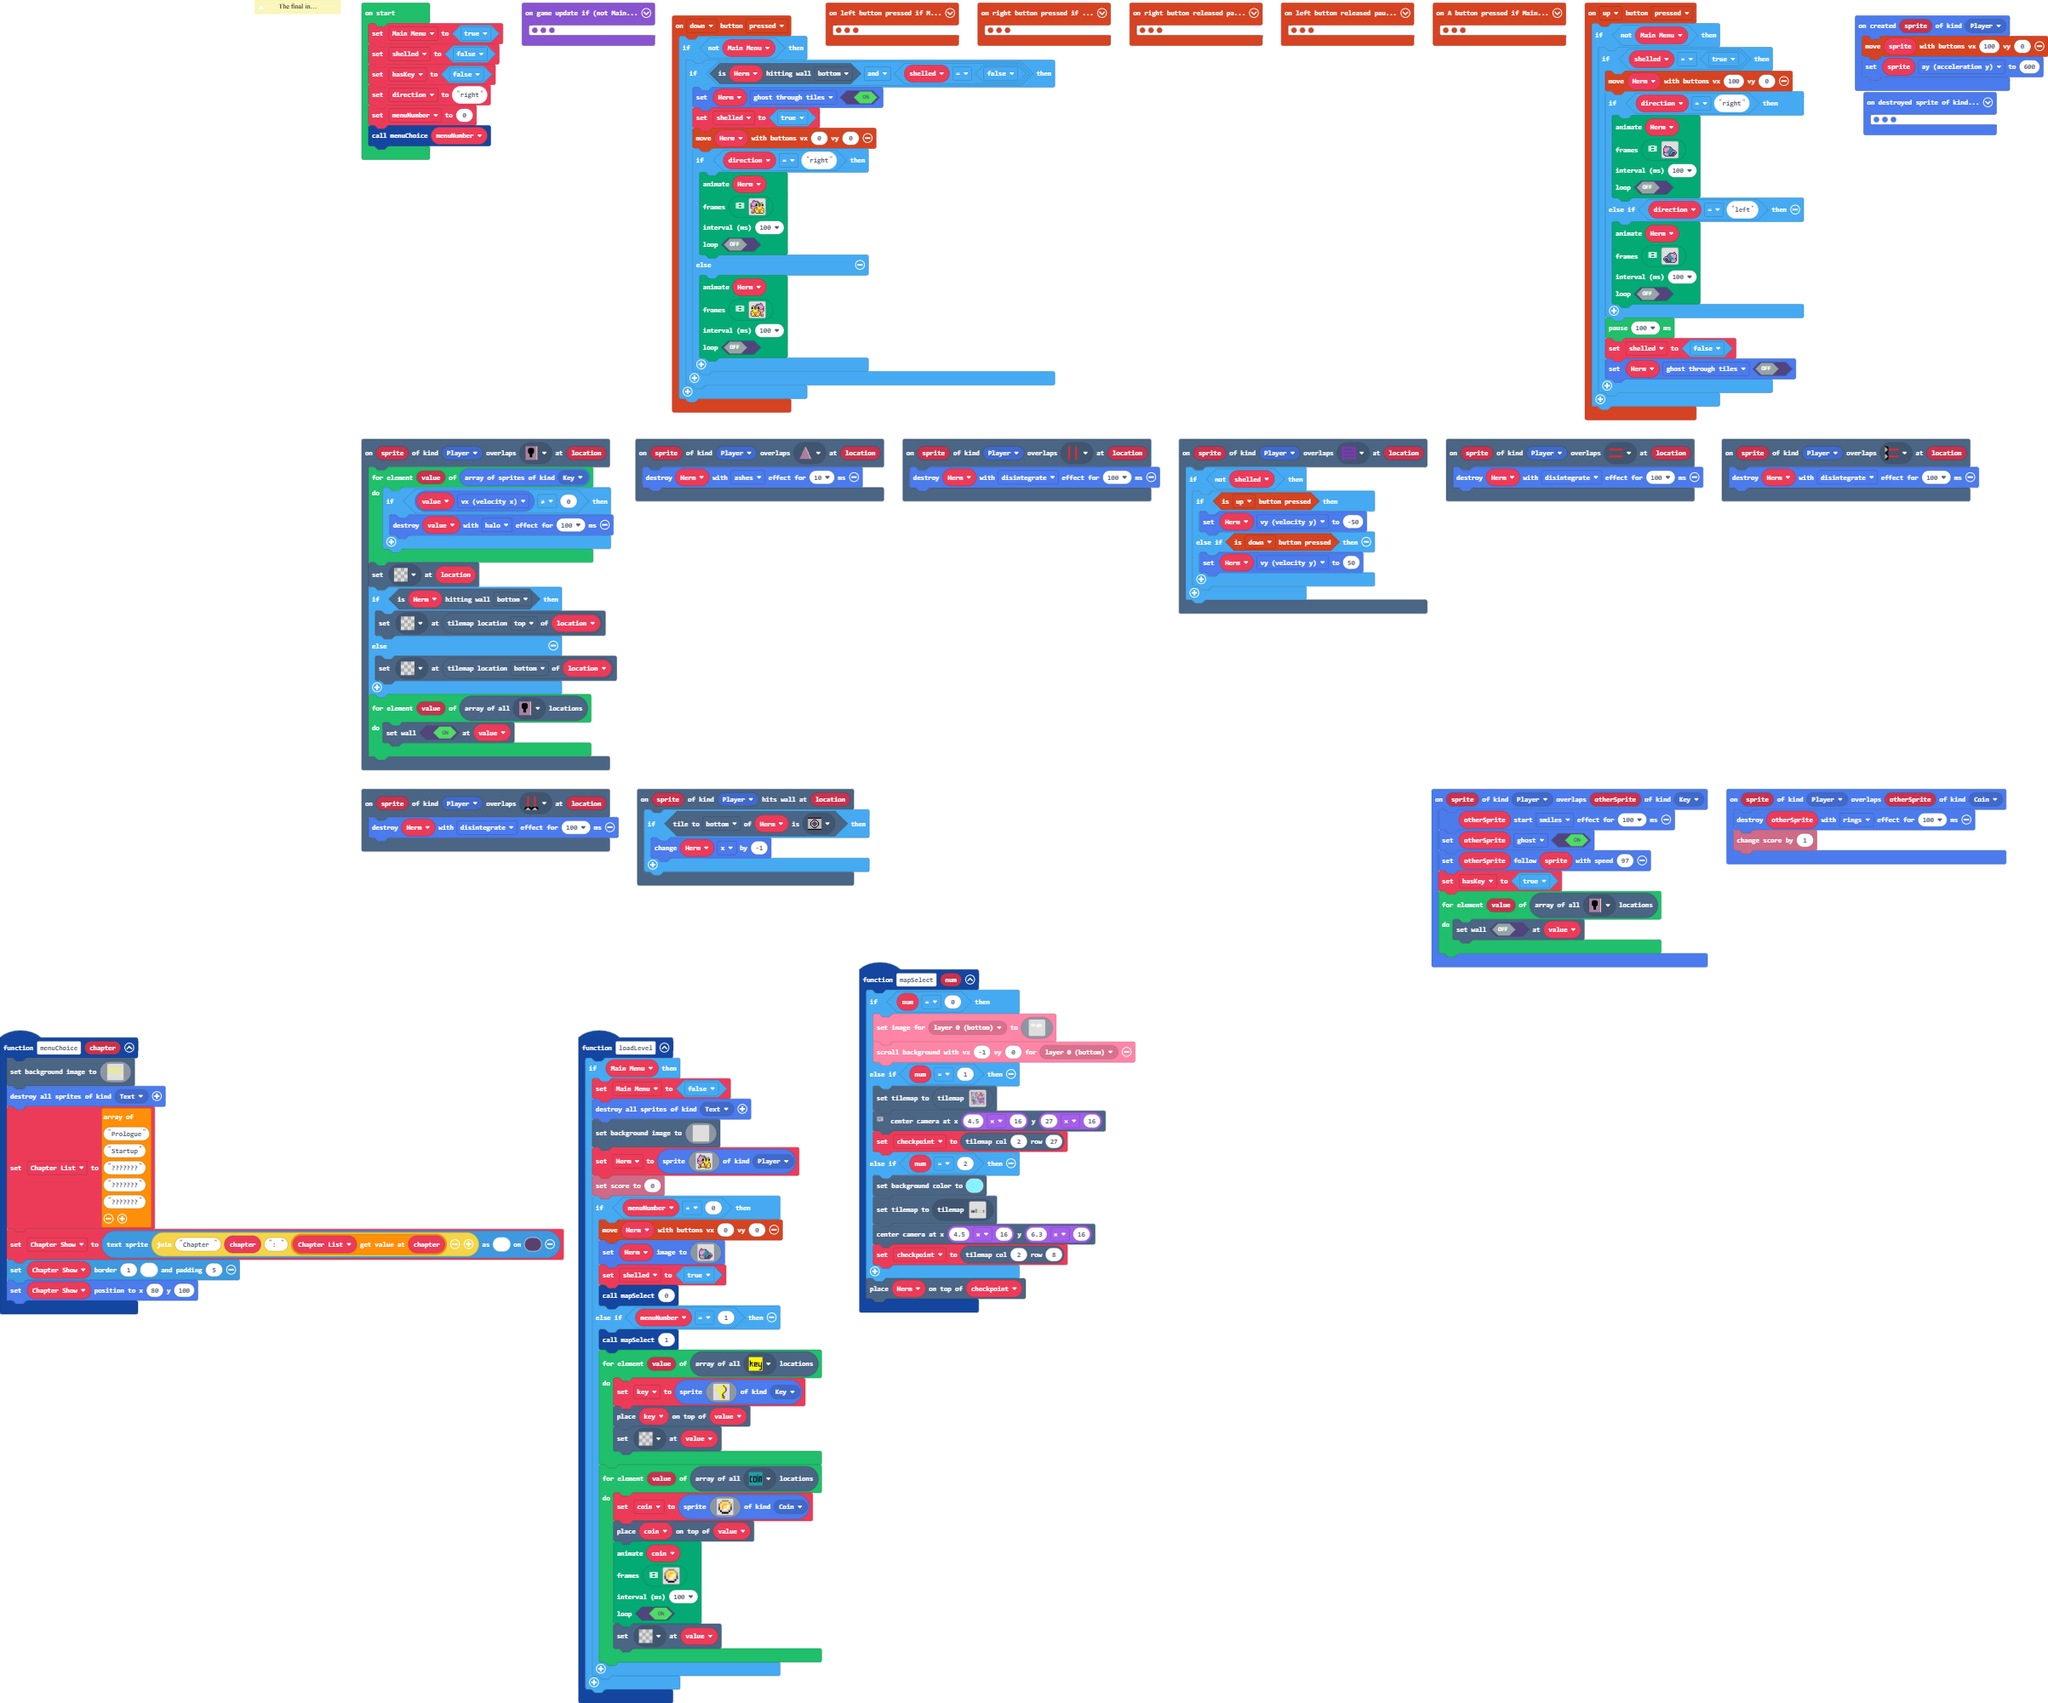
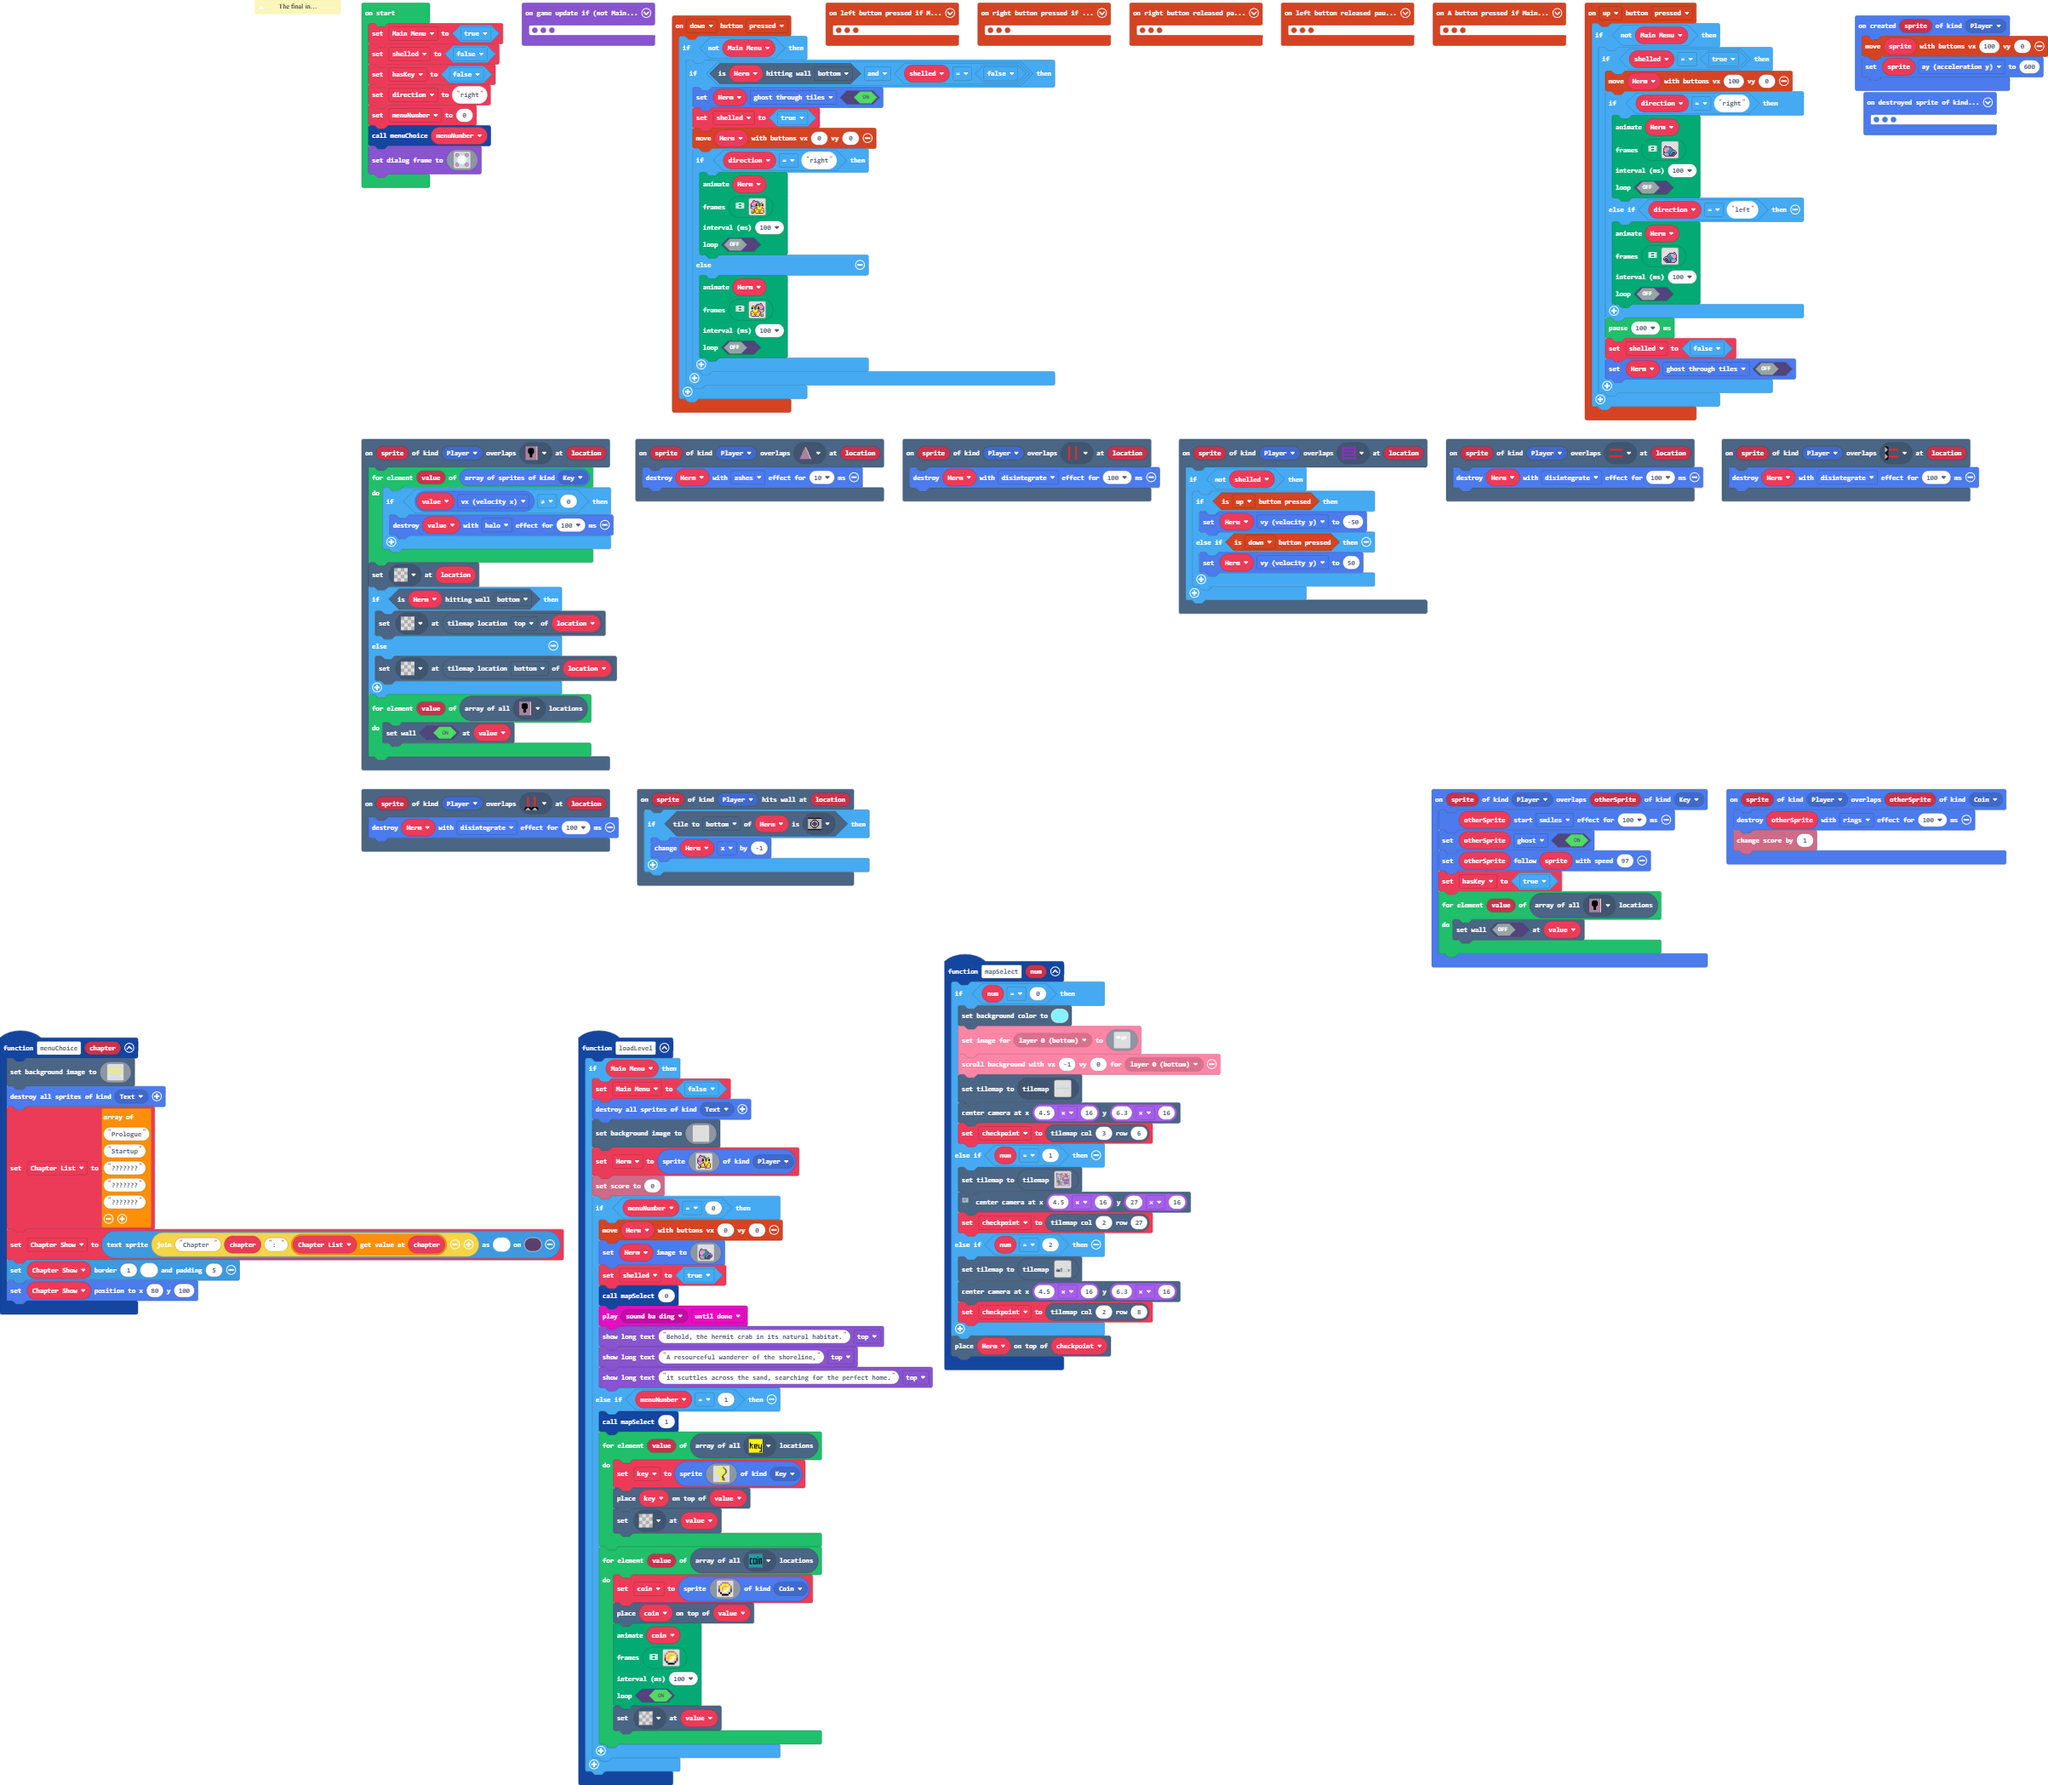
Update main.blocks, main.ts, tilemap.g.jres, tilemap.g.ts

diff --git a/tilemap.g.ts b/tilemap.g.ts
@@ -40,6 +40,8 @@ namespace myTiles {
     export const tile18 = image.ofBuffer(hex``);
     //% fixedInstance jres blockIdentity=images._tile
     export const tile19 = image.ofBuffer(hex``);
+    //% fixedInstance jres blockIdentity=images._tile
+    export const tile20 = image.ofBuffer(hex``);
 
     helpers._registerFactory("tilemap", function(name: string) {
         switch(helpers.stringTrim(name)) {
@@ -171,6 +173,55 @@ namespace myTiles {
 22......................................
 2222222222222222222222222222222222222222
 `, [myTiles.transparency16,myTiles.tile3,myTiles.tile18,sprites.builtin.forestTiles22,sprites.swamp.swampTile0,sprites.swamp.swampTile1,sprites.swamp.swampTile2,sprites.builtin.forestTiles1,sprites.builtin.forestTiles3,sprites.builtin.forestTiles5,sprites.builtin.forestTiles6,sprites.builtin.forestTiles7,sprites.castle.tileGrass1,sprites.castle.tilePath5,sprites.castle.tilePath3,myTiles.tile5,myTiles.tile6,myTiles.tile7,myTiles.tile1,sprites.builtin.forestTiles11,sprites.builtin.forestTiles15,sprites.builtin.forestTiles10,myTiles.tile9,myTiles.tile19], TileScale.Sixteen);
+            case "level7":
+            case "level7":return tiles.createTilemap(hex`1000100000000000000000000000000000000000000000000000000000000000000000000000000000000000000000000000000000000000000000000000000000000000000000000000000000000000000000000000000000000000000000000000000000000000000000000000000000000000000000000000000000000000000000000000000000000000000000000000000000000000000000000000000000000000000000000000000000000000000000000000000000000000000000000000000000000000000000000000000000000000000000000000000000000000000000000000000000000000000000000000000000000000000000000000000000000000`, img`
+. . . . . . . . . . . . . . . . 
+. . . . . . . . . . . . . . . . 
+. . . . . . . . . . . . . . . . 
+. . . . . . . . . . . . . . . . 
+. . . . . . . . . . . . . . . . 
+. . . . . . . . . . . . . . . . 
+. . . . . . . . . . . . . . . . 
+. . . . . . . . . . . . . . . . 
+. . . . . . . . . . . . . . . . 
+. . . . . . . . . . . . . . . . 
+. . . . . . . . . . . . . . . . 
+. . . . . . . . . . . . . . . . 
+. . . . . . . . . . . . . . . . 
+. . . . . . . . . . . . . . . . 
+. . . . . . . . . . . . . . . . 
+. . . . . . . . . . . . . . . . 
+`, [myTiles.transparency16], TileScale.Sixteen);
+            case "level8":
+            case "level8":return tiles.createTilemap(hex`1000100000000000000000000000000000000000000000000000000000000000000000000000000000000000000000000000000000000000000000000000000000000000000000000000000000000000000000000000000000000000000000000000000000000000000000000000000000000000000000000000000000000000000000000000000000000000000000000000000000000000000000000000000000000000000000000000000000000000000000000000000000000000000000000000000000000000000000000000000000000000000000000000000000000000000000000000000000000000000000000000000000000000000000000000000000000000`, img`
+. . . . . . . . . . . . . . . . 
+. . . . . . . . . . . . . . . . 
+. . . . . . . . . . . . . . . . 
+. . . . . . . . . . . . . . . . 
+. . . . . . . . . . . . . . . . 
+. . . . . . . . . . . . . . . . 
+. . . . . . . . . . . . . . . . 
+. . . . . . . . . . . . . . . . 
+. . . . . . . . . . . . . . . . 
+. . . . . . . . . . . . . . . . 
+. . . . . . . . . . . . . . . . 
+. . . . . . . . . . . . . . . . 
+. . . . . . . . . . . . . . . . 
+. . . . . . . . . . . . . . . . 
+. . . . . . . . . . . . . . . . 
+. . . . . . . . . . . . . . . . 
+`, [myTiles.transparency16], TileScale.Sixteen);
+            case "level9":
+            case "level9":return tiles.createTilemap(hex`640008000000000000000000000101000000000000000001010000000000000000010100000000000000000101000000000000000001010000000000000000010100000000000000000101000000000000000001010000000000000000010100000000000000000000000000000000000001010000000000000000010100000000000000000101000000000000000001010000000000000000010100000000000000000101000000000000000001010000000000000000010100000000000000000101000000000000000000000000000000000000010100000000000000000101000000000000000001010000000000000000010100000000000000000101000000000000000001010000000000000000010100000000000000000101000000000000000001010000000000000000000000000000000000000101000000000000000402020000000000000000010100000000000000000101000000000000000001010000000000000000010100000000000000000101000000000000000001010000000000000000010100000000000000000000000000000000000001010000000000040002020200000000000000000101000000000000000001010000000000000000010100000000000000000101000000000000000001010000000000000000010100000000000000000101000000000000000000000000000000000000000000000004000200020202000000000000000000000000000000000000000000000000000000000000000000000000000000000000000000000000000000000000000000000000000000000000000000000000000000000000000003000000030003000000000400020002000202020000000000000000000000000000000000000000000000000000000000000000000000000000000000000000000000000000000000000000000000000000000000000000000000000000000000000002020202020202020202020202020202020202020202020202020202020202020202020202020202020202020202020202020202020202020202020202020202020202020202020202020202020202020202020202020202020202020202020202020202`, img`
+.........22........22........22........22........22........22........22........22........22.........
+.........22........22........22........22........22........22........22........22........22.........
+.........22........22........22........22........22........22........22........22........22.........
+.........22........22........22........22........22........22........22........22........22.........
+.........22........22........22........22........22........22........22........22........22.........
+....................................................................................................
+....................................................................................................
+2222222222222222222222222222222222222222222222222222222222222222222222222222222222222222222222222222
+`, [myTiles.transparency16,myTiles.tile9,sprites.castle.tilePath5,myTiles.tile18,sprites.builtin.forestTiles4], TileScale.Sixteen);
         }
         return null;
     })
@@ -216,6 +267,8 @@ namespace myTiles {
             case "tile18":return tile18;
             case "myTile17":
             case "tile19":return tile19;
+            case "myTile18":
+            case "tile20":return tile20;
         }
         return null;
     })

diff --git a/main.ts b/main.ts
@@ -670,6 +670,10 @@ function loadLevel () {
                 `)
             shelled = true
             mapSelect(0)
+            music.play(music.melodyPlayable(music.baDing), music.PlaybackMode.UntilDone)
+            game.showLongText("Behold, the hermit crab in its natural habitat.", DialogLayout.Top)
+            game.showLongText("A resourceful wanderer of the shoreline,", DialogLayout.Top)
+            game.showLongText("it scuttles across the sand, searching for the perfect home.", DialogLayout.Top)
         } else if (menuNumber == 1) {
             mapSelect(1)
             for (let value of tiles.getTilesByType(assets.tile`myTile2`)) {
@@ -1156,6 +1160,7 @@ scene.onOverlapTile(SpriteKind.Player, assets.tile`myTile10`, function (sprite, 
 })
 function mapSelect (num: number) {
     if (num == 0) {
+        scene.setBackgroundColor(9)
         scroller.setLayerImage(scroller.BackgroundLayer.Layer0, img`
             ................................................................................................................................................................
             ................................................................................................................................................................
@@ -1279,13 +1284,15 @@ function mapSelect (num: number) {
             ................................................................................................................................................................
             `)
         scroller.scrollBackgroundWithSpeed(-1, 0, scroller.BackgroundLayer.Layer0)
+        tiles.setCurrentTilemap(tilemap`level9`)
+        scene.centerCameraAt(4.5 * 16, 6.3 * 16)
+        checkpoint = tiles.getTileLocation(3, 6)
     } else if (num == 1) {
         tiles.setCurrentTilemap(tilemap`level2`)
         // column at half of the room, same row as Herm.
         scene.centerCameraAt(4.5 * 16, 27 * 16)
         checkpoint = tiles.getTileLocation(2, 27)
     } else if (num == 2) {
-        scene.setBackgroundColor(9)
         tiles.setCurrentTilemap(tilemap`level6`)
         scene.centerCameraAt(4.5 * 16, 6.3 * 16)
         checkpoint = tiles.getTileLocation(2, 8)
@@ -1319,6 +1326,41 @@ hasKey = false
 direction = "right"
 menuNumber = 0
 menuChoice(menuNumber)
+game.setDialogFrame(img`
+    ..ccccc....333.....333...ccccc...
+    .c33b33c..39993...39993.c33b33c..
+    c3b33bb3c39999933399999c3bb33b3c.
+    c33b33b3c99111999991119c3b33b33c.
+    cb33b33bc91999199919991cb33b33bc.
+    c3b33bbbcb999991119999bcbbb33b3c.
+    c3bb3bbd1b111119991111b1dbb3bb3c.
+    .c33bbd1b11111111111111b1dbb33c..
+    ..cccc1b1111111111111111b1cccc...
+    .3991bb111111111111111111bb993...
+    3991991111111111111111111191993..
+    39919911111111111111111111991993.
+    39919911111111111111111111991993.
+    .3991911111111111111111111991993.
+    ..39919111111111111111111191993..
+    ..3991911111111111111111191993...
+    ..3991911111111111111111191993...
+    .39919111111111111111111191993...
+    3991991111111111111111111191993..
+    39919911111111111111111111991993.
+    39919911111111111111111111991993.
+    .3991911111111111111111111991993.
+    ..699bb111111111111111111bb1993..
+    ..cccc1b1111111111111111b1cccc...
+    .c33bbd1b11111111111111b1dbb33c..
+    c3bb3bbd1b111199911111b1dbb3bb3c.
+    c3b33bbbcb999911199999bcbbb33b3c.
+    cb33b33bc19991999199919cb33b33bc.
+    c33b33b3c91119999911199c3b33b33c.
+    c3b33bb3c99999333999993c3bb33b3c.
+    .c33b33c.39993...39993..c33b33c..
+    ..ccccc...333.....333....ccccc...
+    .................................
+    `)
 game.onUpdate(function () {
     if (!(Main_Menu)) {
         if (Herm.x > scene.cameraProperty(CameraProperty.Right)) {
